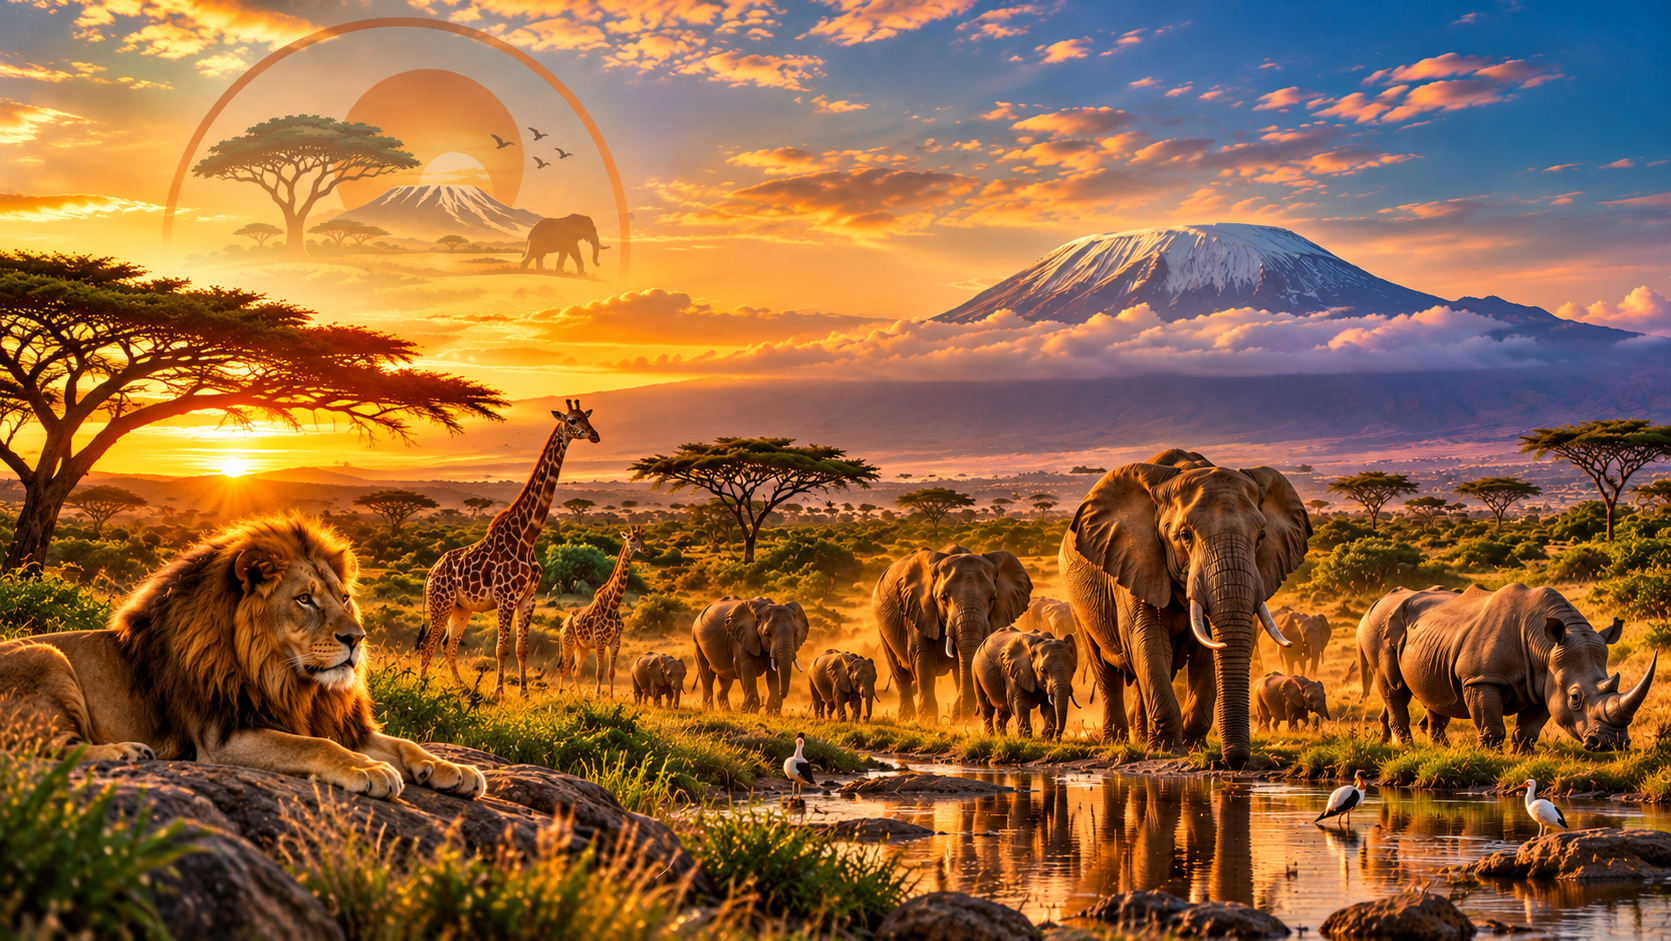
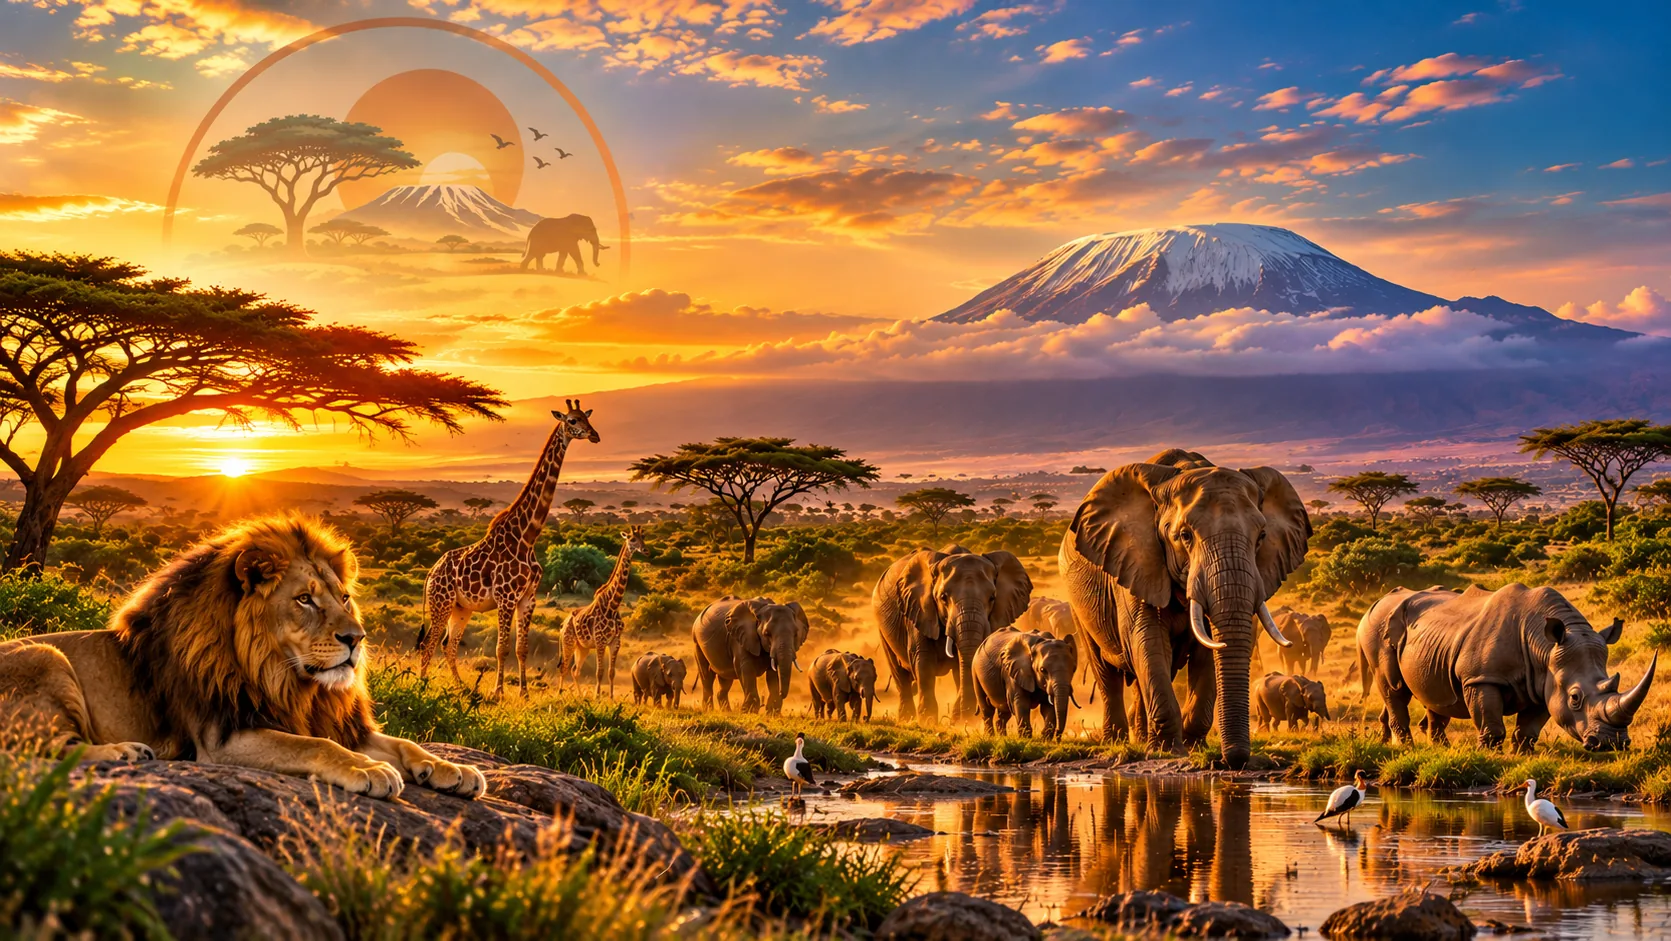
Improve Mtaliii Africa mobile responsiveness and hero image

diff --git a/public/mtaliii-mobile-fix.css b/public/mtaliii-mobile-fix.css
@@ -1,0 +1,130 @@
+/* MTALIII AFRICA — RESPONSIVE MOBILE IMPROVEMENTS */
+/* Desktop layout remains unchanged */
+
+@media (max-width: 1000px) {
+  .cards,
+  .hotelgrid,
+  .agencygrid {
+    grid-template-columns: repeat(2, minmax(0, 1fr));
+  }
+
+  .cards > *,
+  .hotelgrid > *,
+  .agencygrid > * {
+    min-width: 0;
+  }
+}
+
+@media (max-width: 700px) {
+  .hero {
+    min-height: 580px;
+    height: auto;
+  }
+
+  .hero-bg {
+    background-position: 58% center;
+    background-size: cover;
+  }
+
+  .hero-inner {
+    padding: 95px 6% 115px;
+    max-width: 100%;
+  }
+
+  .hero h1 {
+    font-size: clamp(42px, 11vw, 68px);
+    letter-spacing: -2px;
+    line-height: 1.05;
+    overflow-wrap: break-word;
+  }
+
+  .hero p {
+    font-size: 16px;
+    line-height: 1.6;
+    max-width: 100%;
+  }
+
+  .hero-actions {
+    flex-wrap: wrap;
+    gap: 12px;
+  }
+
+  .hero-counter {
+    flex-wrap: wrap;
+    gap: 10px;
+    margin-top: 30px;
+  }
+
+  .hero-counter #heroCaption {
+    margin-left: 0;
+  }
+
+  .section {
+    padding-left: 5%;
+    padding-right: 5%;
+  }
+
+  .cards,
+  .hotelgrid,
+  .agencygrid {
+    grid-template-columns: minmax(0, 1fr);
+  }
+
+  .searchrow,
+  .stays .searchrow,
+  .twocol,
+  .planning,
+  .portal-grid {
+    grid-template-columns: minmax(0, 1fr);
+  }
+
+  input,
+  select,
+  textarea {
+    max-width: 100%;
+    min-width: 0;
+  }
+
+  .form input,
+  .form select,
+  .form textarea {
+    font-size: 16px;
+  }
+
+  .hero-bottom {
+    flex-wrap: wrap;
+    gap: 8px;
+  }
+
+  .nav {
+    max-width: 100%;
+  }
+
+  .nav img {
+    max-width: 100%;
+    height: auto;
+  }
+
+  #register .portal-grid {
+    grid-template-columns: minmax(0, 1fr) !important;
+  }
+}
+
+@media (max-width: 380px) {
+  .hero h1 {
+    font-size: clamp(38px, 10vw, 48px);
+  }
+
+  .hero-inner {
+    padding-left: 5%;
+    padding-right: 5%;
+  }
+
+  .hero-actions > * {
+    max-width: 100%;
+  }
+
+  .bigfive {
+    grid-template-columns: repeat(2, minmax(0, 1fr));
+  }
+}

diff --git a/public/index.html b/public/index.html
@@ -2,6 +2,7 @@
 <html lang="en">
 
 <head>
+<link rel="stylesheet" href="/mtaliii-mobile-fix.css">
     <meta charset="UTF-8">
     <meta name="viewport" content="width=device-width, initial-scale=1">
 
